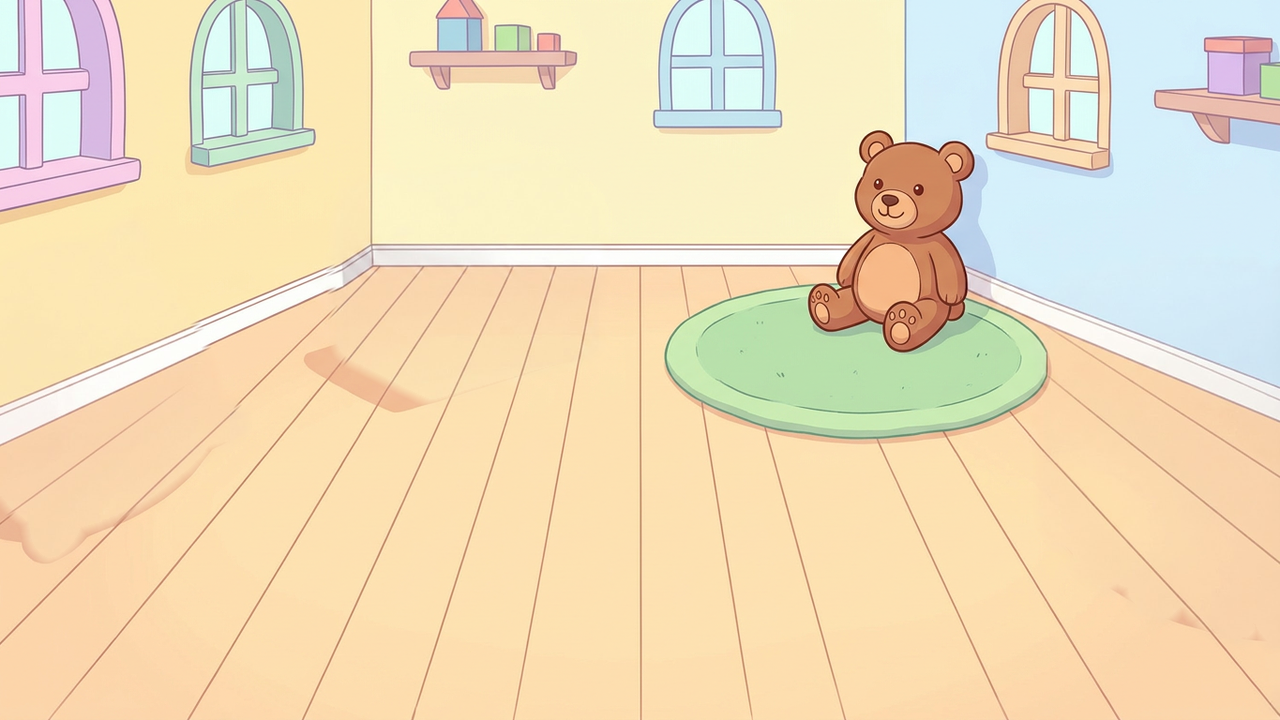
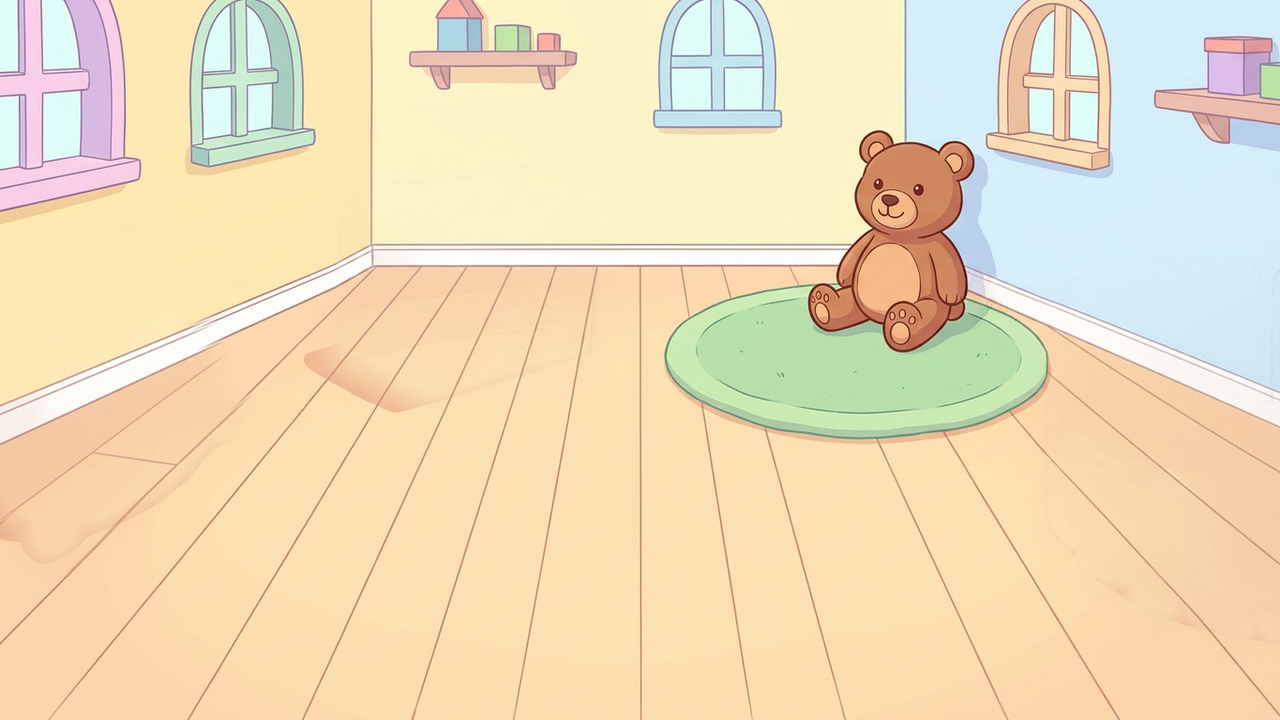
fix(escape): shadow-aware clean plate compositing + proximity-constrained sprites
Root cause: remove_all_objects() composited only inside tight SAM masks,
preserving original object shadows in the clean plate. These shadow ghosts
then contaminated plate-diff keying with false positives.

Three fixes:
- remove.py: 30px soft-feathered blend (distance_transform_edt) so shadow
  removal from Gemini inpainting survives compositing. Added --save-plate
  CLI mode for full clean plate regeneration.
- escape_pipeline.py: step_plate_restore dilation 5px→30px to match the
  shadow zone and not revert legitimate shadow removal.
- extract_sprites.py: full-coverage last frame constrained to 20px dilation
  of the animation's own mask territory, preventing sibling bleed (pillow).

Toyroom clean plate regenerated (all 5/5 rubric scores), sprite sheet
re-extracted with plate-diff keyed masks. Left-strip pillow bleed in last
frame: 20576 px → 2833 px.

diff --git a/tools/gen/remove.py b/tools/gen/remove.py
@@ -5,6 +5,7 @@ Removes objects from escape room scenes using Gemini image editing with:
 - Native removal first, cyan-fill fallback
 - 5-criterion rubric judge gate (object, shadow, collateral, boundary, fill)
 - Thread-safe Gemini clients for parallel operation
+- Shadow-aware compositing: dilated masks capture shadow removal
 
 Replaces the deprecated Imagen 3 pipeline with Gemini 3.1 Flash Lite (image).
 
@@ -31,6 +32,7 @@ from pathlib import Path
 
 import numpy as np
 from PIL import Image
+from scipy.ndimage import distance_transform_edt
 
 EDIT_MODEL = "gemini-3.1-flash-lite-image"
 JUDGE_MODEL = "gemini-3.6-flash"
@@ -297,19 +299,33 @@ def remove_all_objects(
             else:
                 print(f"  WARNING: {hotspot} removal failed all attempts")
 
-    clean = np.array(scene).copy()
+    orig_arr = np.array(scene).astype(np.float32)
+    composite = orig_arr.copy()
+    max_w = np.zeros(orig_arr.shape[:2], dtype=np.float32)
     scores_out = {}
+
     for hotspot in masks:
         if hotspot not in results:
             scores_out[hotspot] = {"error": "all attempts failed"}
             continue
         img, scores = results[hotspot]
         mask = masks[hotspot]
-        result_arr = np.array(img)
-        clean[mask] = result_arr[mask]
+        result_arr = np.array(img).astype(np.float32)
+
+        dist_outside = distance_transform_edt(~mask)
+        w = np.clip(1.0 - dist_outside / 30.0, 0, 1).astype(np.float32)
+
+        # Per-pixel blend: original * (1 - w) + inpainted * w
+        # Where multiple objects overlap, the higher weight wins
+        use = w > max_w
+        composite[use] = (
+            orig_arr[use] * (1 - w[use, None])
+            + result_arr[use] * w[use, None]
+        )
+        max_w = np.maximum(max_w, w)
         scores_out[hotspot] = scores
 
-    return Image.fromarray(clean), scores_out
+    return Image.fromarray(np.clip(composite, 0, 255).astype(np.uint8)), scores_out
 
 
 # ---- CLI ----
@@ -354,11 +370,36 @@ def main():
     parser.add_argument("hotspots", nargs="*", help="Hotspot names (all if omitted)")
     parser.add_argument("--workers", type=int, default=6)
     parser.add_argument("--attempts", type=int, default=3)
+    parser.add_argument("--save-plate", action="store_true",
+                        help="Save composited clean plate as <room>_clean.png")
     args = parser.parse_args()
 
     items = _load_masks(args.room, args.hotspots or None)
     if not items:
         print("No matching SAM masks found")
+        return
+
+    if args.save_plate:
+        by_room: dict[str, dict[str, np.ndarray]] = {}
+        by_room_names: dict[str, dict[str, str]] = {}
+        for room, hs, name, mask in items:
+            by_room.setdefault(room, {})[hs] = mask
+            by_room_names.setdefault(room, {})[hs] = name
+        for room in sorted(by_room):
+            scene = Image.open(SCENES / f"{room}.png").convert("RGB")
+            print(f"\n  [{room}] Removing {len(by_room[room])} objects...")
+            clean, scores = remove_all_objects(
+                scene, by_room[room], by_room_names[room],
+                max_workers=args.workers)
+            out_path = SCENES / f"{room}_clean.png"
+            clean.save(out_path)
+            for hs, sc in scores.items():
+                if "error" in sc:
+                    print(f"  {room}/{hs}: FAIL — {sc['error']}")
+                else:
+                    tag = " ".join(f"{c[:3]}={sc[c]}" for c in CRITERIA)
+                    print(f"  {room}/{hs}: {tag}")
+            print(f"  Saved {out_path}")
         return
 
     scenes_cache: dict[str, Image.Image] = {}
@@ -373,7 +414,6 @@ def main():
         return room, hs, name, result
 
     with ThreadPoolExecutor(max_workers=args.workers) as pool:
-        # Pre-load scenes (sequential, fast)
         for room, _, _, _ in items:
             if room not in scenes_cache:
                 scenes_cache[room] = Image.open(

diff --git a/tools/escape_layers/extract_sprites.py b/tools/escape_layers/extract_sprites.py
@@ -576,6 +576,9 @@ def extract_sprite_sheet(
     # SAM mask; objects that change shape (chest opens, pillow moves)
     # leave gaps.  Fix: merge the plate→after alpha into the last frame
     # so the held composition exactly reconstructs the after-scene.
+    # Constrain to proximity of the last animation mask to prevent
+    # capturing unrelated siblings (pillow, etc.) that also differ
+    # from the plate.
     if plate_img is not None:
         plate_crop_fc = plate_img[
             bbox["y"]:bbox["y"] + bbox["h"],
@@ -586,6 +589,8 @@ def extract_sprite_sheet(
         ).sum(axis=-1)
         full_mask = ndimage.binary_closing(delta_fc > 25, iterations=2)
         full_mask = ndimage.binary_fill_holes(full_mask)
+        anim_territory = subsampled[-1][:, :, 3] > 0
+        full_mask &= ndimage.binary_dilation(anim_territory, iterations=20)
         full_alpha = full_mask.astype(np.uint8) * 255
         full_alpha_f = np.array(
             Image.fromarray(full_alpha).filter(ImageFilter.GaussianBlur(radius=1))

diff --git a/tools/gen/escape_pipeline.py b/tools/gen/escape_pipeline.py
@@ -87,7 +87,7 @@ def step_plate_restore(room_id: str) -> np.ndarray:
 
     keep = np.zeros(orig.shape[:2], dtype=bool)
     for mp in sorted(SAM_DIR.glob(f"{room_id}_*.png")):
-        keep |= binary_dilation(np.array(Image.open(mp).convert("L")) > 0, iterations=5)
+        keep |= binary_dilation(np.array(Image.open(mp).convert("L")) > 0, iterations=30)
 
     w = np.clip(distance_transform_edt(~keep) / 10.0, 0, 1)
     before_diff = np.abs(clean - orig).mean(-1)[~keep].mean()
